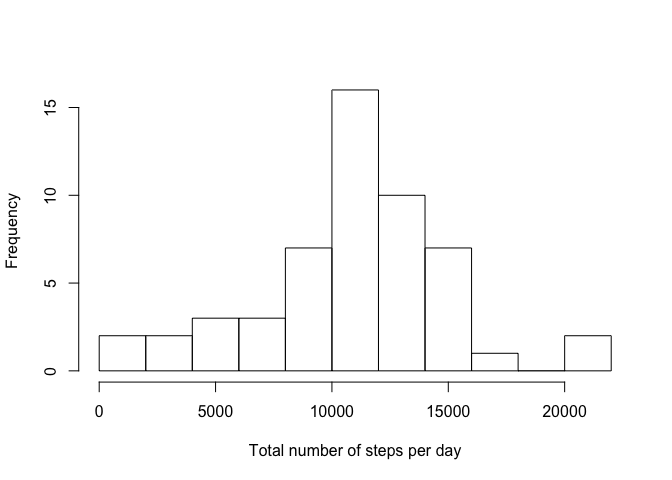
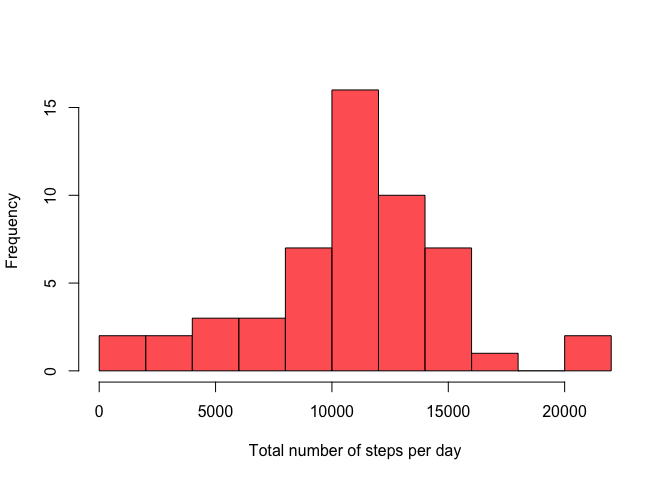
update histogram

Changed region(s): [[0.125, 0.1875, 0.7812, 0.7812], [0.8438, 0.6875, 0.9062, 0.7812]]

diff --git a/PA1_template.html b/PA1_template.html
@@ -80,9 +80,10 @@ date&lt;-dataNM$date</code></pre>
      sumsteps, 
      xlab=&quot;Total number of steps per day&quot;,
      main=&quot;&quot;,
-     breaks=10
+     breaks=10,
+     col=rgb(1,0,0,0.7)
      )</code></pre>
[2 lines of base64/hex data omitted]
 <p>The average of total number of steps per day is:</p>
 <pre class="r"><code>mean(sumsteps)</code></pre>
 <pre><code>## [1] 10766</code></pre>

diff --git a/PA1_template.md b/PA1_template.md
@@ -56,7 +56,8 @@ hist(
      sumsteps, 
      xlab="Total number of steps per day",
      main="",
-     breaks=10
+     breaks=10,
+     col=rgb(1,0,0,0.7)
      )
 ```
 
